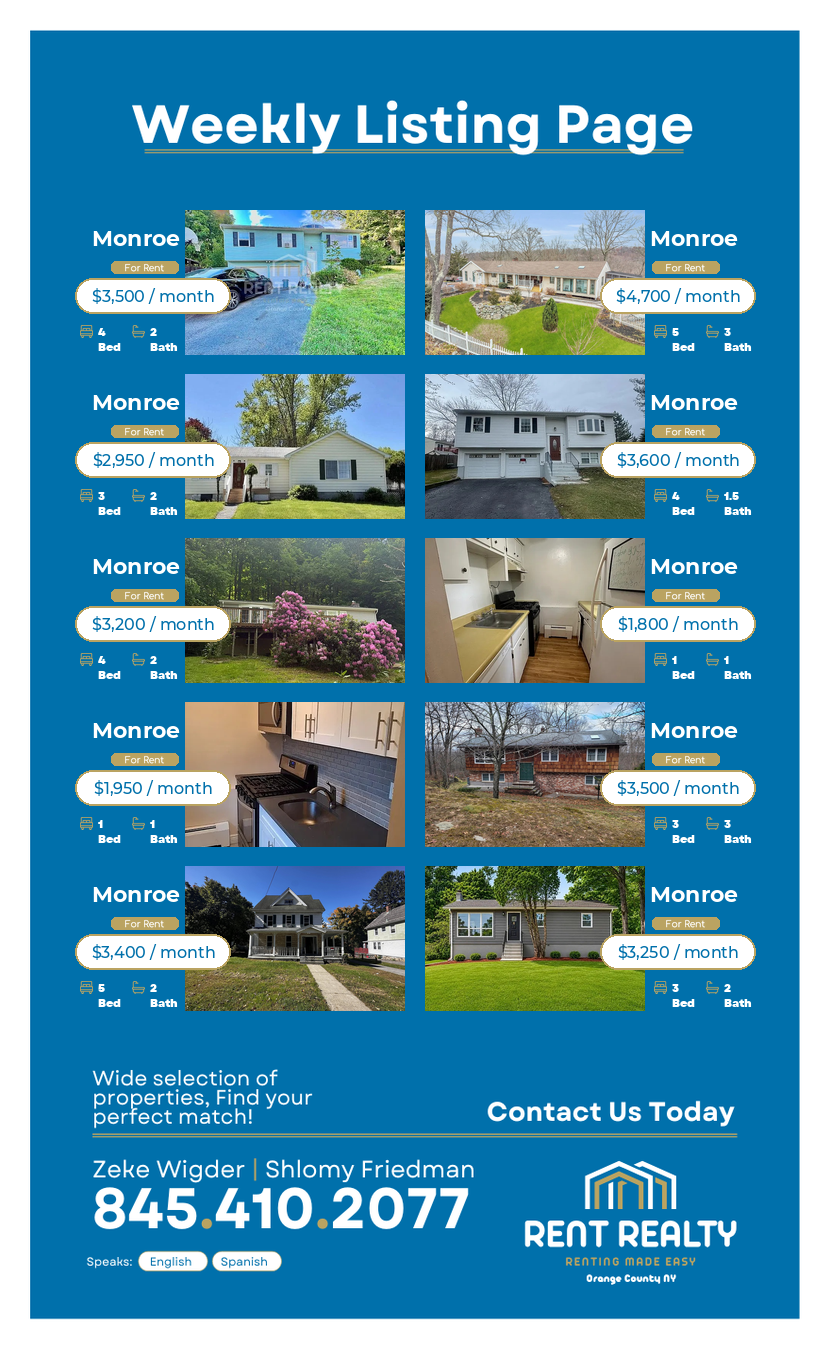
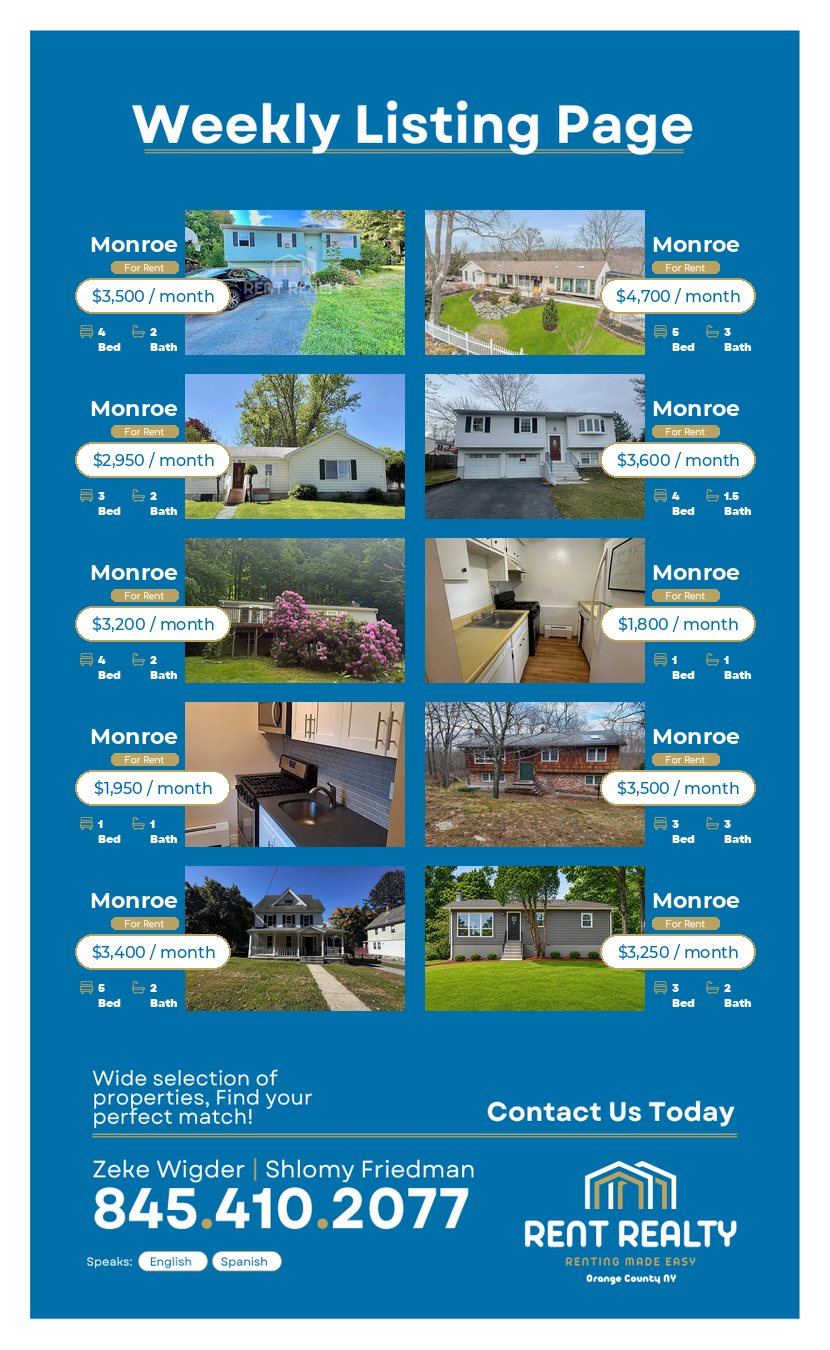
Se podría mejorar la altura de las ubicaciones con tamaño modificado

diff --git a/utils/flyer.py b/utils/flyer.py
@@ -165,8 +165,8 @@ from config.settings import (
     # ========================================================
 
     LOCATION_TEXT_COLOR,
-    LOCATION_MAX_WIDTH_LEFT,
-    LOCATION_MAX_WIDTH_RIGHT,
+    LOCATION_LAYOUT_WIDTH,
+    LOCATION_MAX_TEXT_WIDTH,
     LOCATION_MAX_LINES,
     LOCATION_MULTILINE_EXTRA_UP,
 
@@ -1693,6 +1693,7 @@ def dibujar_location(
     x,
     y,
     max_width,
+    layout_width,
     align
 ):
 
@@ -1899,7 +1900,7 @@ def dibujar_location(
 
             line_x = (
                 x
-                + max_width
+                + layout_width
                 - line_w
             )
 
@@ -2872,8 +2873,11 @@ def obtener_layout_propiedad(
                 base_y
                 + left_location_y,
 
+            "location_layout_width":
+                LOCATION_LAYOUT_WIDTH,
+
             "location_max_width":
-                LOCATION_MAX_WIDTH_LEFT,
+                LOCATION_MAX_TEXT_WIDTH,
 
             "location_align":
                 "right",
@@ -2929,7 +2933,7 @@ def obtener_layout_propiedad(
     right_location_x = (
         mirror_x(
             left_location_x,
-            LOCATION_MAX_WIDTH_LEFT
+            LOCATION_LAYOUT_WIDTH
         )
     )
 
@@ -3005,8 +3009,11 @@ def obtener_layout_propiedad(
             base_y
             + left_location_y,
 
+        "location_layout_width":
+            LOCATION_LAYOUT_WIDTH,
+
         "location_max_width":
-            LOCATION_MAX_WIDTH_RIGHT,
+            LOCATION_MAX_TEXT_WIDTH,
 
         "location_align":
             "left",
@@ -3200,6 +3207,11 @@ def dibujar_propiedad(
         max_width=
             layout[
                 "location_max_width"
+            ],
+
+        layout_width=
+            layout[
+                "location_layout_width"
             ],
 
         align=

diff --git a/config/settings.py b/config/settings.py
@@ -462,7 +462,7 @@ LEFT_INFO_GROUP_HEIGHT = 145
 # ============================================================
 
 LEFT_LOCATION_REL_X = 0
-LEFT_LOCATION_REL_Y = 18
+LEFT_LOCATION_REL_Y = 24
 
 
 # ============================================================
@@ -616,8 +616,13 @@ FEATURE_ICON_Y_OFFSET = 2
 
 LOCATION_TEXT_COLOR = COLOR_WHITE
 
-LOCATION_MAX_WIDTH_LEFT = 110
-LOCATION_MAX_WIDTH_RIGHT = 110
+# Ancho fijo usado únicamente para mantener
+# la posición actual de Location.
+LOCATION_LAYOUT_WIDTH = 108
+
+# Ancho máximo permitido para el texto.
+# Esta es la variable que puedes modificar.
+LOCATION_MAX_TEXT_WIDTH = 130
 
 LOCATION_MAX_LINES = 2
 
